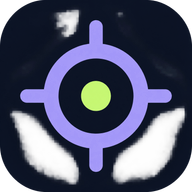
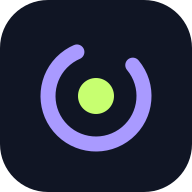
Adoptar Spotea en la marca visible y los iconos de instalación

diff --git a/app/src/components/demo/demo-panels.tsx b/app/src/components/demo/demo-panels.tsx
@@ -54,7 +54,7 @@ export function DemoPlans() {
       const event = DEMO_EVENTS.find((item) => item.placeId === plan.placeId)!;
       return <article key={plan.placeId} className="flex flex-col gap-3 rounded-[28px] border border-white/10 bg-white/[.025] p-4">
         <div className="flex items-center gap-3"><PlacePhoto path={null} alt="" demo variant={place.music === "jazz" ? "live" : place.music === "indie" ? "terrace" : place.music === "pop" ? "electric" : "night"} className="h-24 w-20 flex-none rounded-2xl" /><div><span className="text-[10px] font-semibold text-violet-soft">{event.time} / Demo</span><Link href={`/local/${plan.placeId}`} className="mt-2 block text-lg leading-tight font-bold">{event.title}</Link><p className="mt-1 text-[11px] text-muted">{place.name} · {place.zone}</p></div></div>
-        <div className="grid grid-cols-2 gap-2"><a href={`https://www.google.com/maps/search/?api=1&query=${place.lat},${place.lng}`} target="_blank" rel="noopener noreferrer" aria-label="Cómo llegar (ubicación demo)" className="flex min-h-11 items-center justify-center gap-2 rounded-full border border-white/15 text-xs font-semibold text-violet-soft"><MapPin aria-hidden className="h-4 w-4" />Cómo llegar</a><ShareButton title={event.title} text={`Plan de prueba en Hunter · ${event.time}. Evento simulado, no una reserva real.`} path={`/local/${plan.placeId}`} label="Compartir plan" /></div>
+        <div className="grid grid-cols-2 gap-2"><a href={`https://www.google.com/maps/search/?api=1&query=${place.lat},${place.lng}`} target="_blank" rel="noopener noreferrer" aria-label="Cómo llegar (ubicación demo)" className="flex min-h-11 items-center justify-center gap-2 rounded-full border border-white/15 text-xs font-semibold text-violet-soft"><MapPin aria-hidden className="h-4 w-4" />Cómo llegar</a><ShareButton title={event.title} text={`Plan de prueba en Spotea · ${event.time}. Evento simulado, no una reserva real.`} path={`/local/${plan.placeId}`} label="Compartir plan" /></div>
         {plan.checkedIn ? <>
           <p className="font-semibold text-lime">Check-in simulado · sin puntos</p>
           {plan.rating === null ? <label className="text-sm">Valorar la visita demo<select aria-label={`Valorar ${event.title}`} defaultValue="" onChange={(e) => { const rating = Number(e.target.value); update((current) => ({ ...current, plans: current.plans.map((p) => p.placeId === plan.placeId ? { ...p, rating } : p) })); }} className="mt-2 w-full rounded-xl border border-white/20 bg-night-900 p-3"><option value="" disabled>Elige una puntuación</option>{[5, 4, 3, 2, 1].map((rating) => <option key={rating} value={rating}>{rating} de 5 ★</option>)}</select></label>
@@ -72,7 +72,7 @@ export function DemoControls() {
   const { state, reset, ready, storageFailed } = useDemo();
   return <section className="flex flex-col gap-4">
     <h1 className="text-2xl font-extrabold">Pruebas y datos demo</h1><DemoBanner />
-    <p className="text-sm text-muted">Cuando no hay locales reales, Hunter muestra cuatro locales y cuatro eventos de ejemplo. Puedes apuntarte, simular un check-in, valorar y simular una compra validada.</p>
+    <p className="text-sm text-muted">Cuando no hay locales reales, Spotea muestra cuatro locales y cuatro eventos de ejemplo. Puedes apuntarte, simular un check-in, valorar y simular una compra validada.</p>
     <p className="glass rounded-2xl p-4">Puntos demo: <b>{demoPoints(state)}</b> · Planes demo: <b>{state.plans.length}</b></p>
     <p className="text-xs text-muted">Estos puntos no se suman a los del perfil real. Reiniciar la demo no modifica tu cuenta ni los datos de Supabase.</p>
     {storageFailed && <p role="alert" className="text-sm text-rose">El navegador no permite guardar la demo. Puedes probarla, pero los cambios se perderán al recargar.</p>}

diff --git a/app/src/app/local/[placeId]/page.tsx b/app/src/app/local/[placeId]/page.tsx
@@ -27,11 +27,11 @@ export async function generateMetadata({ params }: { params: Promise<{ placeId: 
   const data = await loadPublicPlace(placeId);
   if (!data) notFound();
   const { place, demo } = data;
-  const description = demo ? `${place.name}: demostración ficticia de Hunter en Valencia.` : `${place.name} en ${place.zone}, ${place.city}. Consulta horarios, música, ambiente y disponibilidad en Hunter.`;
+  const description = demo ? `${place.name}: demostración ficticia de Spotea en Valencia.` : `${place.name} en ${place.zone}, ${place.city}. Consulta horarios, música, ambiente y disponibilidad en Spotea.`;
   const url = absoluteUrl(`/local/${place.id}`);
-  return { title: `${place.name} · Hunter`, description,
+  return { title: `${place.name} · Spotea`, description,
     alternates: demo ? undefined : { canonical: url }, robots: { index: indexingEnabled && !demo, follow: !demo },
-    openGraph: { title: `${place.name} · Hunter`, description, url, type: "website", images: !demo && place.cover_path ? [{ url: placePhotoUrl(publicEnv.supabaseUrl,place.cover_path), alt: place.name }] : [] },
+    openGraph: { title: `${place.name} · Spotea`, description, url, type: "website", images: !demo && place.cover_path ? [{ url: placePhotoUrl(publicEnv.supabaseUrl,place.cover_path), alt: place.name }] : [] },
   };
 }
 
@@ -66,8 +66,8 @@ export default async function PlacePage({ params }: { params: Promise<{ placeId:
         <PlacePhoto path={place.cover_path} alt={place.name} eager demo={Boolean(demoPlace)} variant={place.music === "jazz" ? "live" : place.music === "indie" ? "terrace" : place.music === "pop" ? "electric" : "night"} className="absolute inset-0" />
         <div aria-hidden className="absolute inset-0 bg-gradient-to-t from-black/70 via-transparent to-black/10" />
         <div className="absolute top-6 left-5"><IconLink href="/" label="Volver a Esta noche"><ArrowLeft aria-hidden className="h-5 w-5" /></IconLink></div>
-        <div className="absolute top-6 right-5"><ShareButton compact title={place.name.replace(" · Demo", "")} text={demoPlace ? "Plan de prueba de Hunter · Evento simulado." : `¿Vamos a ${place.name}? Descubre el plan en Hunter.`} path={`/local/${placeId}`} label="Compartir local" /></div>
-        <div className="detail-title absolute right-8 bottom-6 left-0 rounded-r-[48px] px-6 py-5"><p className="mb-2 text-[10px] font-semibold text-white/70">{demoPlace ? "Hunter presenta / Evento demo" : "Descubre el local"}</p><h1 className="max-w-72 text-[34px] leading-[1.05] font-extrabold tracking-tight text-white">{place.name}</h1>{demoPlace && <p className="mt-2 text-sm font-medium text-white/80">{DEMO_EVENTS.find((event) => event.placeId === placeId)?.title}</p>}</div>
+        <div className="absolute top-6 right-5"><ShareButton compact title={place.name.replace(" · Demo", "")} text={demoPlace ? "Plan de prueba de Spotea · Evento simulado." : `¿Vamos a ${place.name}? Descubre el plan en Spotea.`} path={`/local/${placeId}`} label="Compartir local" /></div>
+        <div className="detail-title absolute right-8 bottom-6 left-0 rounded-r-[48px] px-6 py-5"><p className="mb-2 text-[10px] font-semibold text-white/70">{demoPlace ? "Spotea presenta / Evento demo" : "Descubre el local"}</p><h1 className="max-w-72 text-[34px] leading-[1.05] font-extrabold tracking-tight text-white">{place.name}</h1>{demoPlace && <p className="mt-2 text-sm font-medium text-white/80">{DEMO_EVENTS.find((event) => event.placeId === placeId)?.title}</p>}</div>
       </div>
       <div className="relative mx-auto flex w-full max-w-2xl flex-col gap-6 px-6 pt-6 pb-36">
         <div className="flex flex-col gap-3 text-xs text-muted">

diff --git a/app/src/app/invitaciones/invitations-view.tsx b/app/src/app/invitaciones/invitations-view.tsx
@@ -16,7 +16,7 @@ export function InvitationsView({ referrals }: { referrals: Referrals }) {
     catch { setError("No hemos podido conectar. Inténtalo de nuevo."); } finally { setBusy(false); }
   }
   async function copy() { try { await navigator.clipboard.writeText(referrals.code); setNotice("Código copiado. Puedes enviarlo a quien invites."); } catch { setNotice("Selecciona el código para copiarlo."); } }
-  return <section className="flex flex-col gap-5"><h1 className="text-3xl font-extrabold">Invita con tu código</h1><p className="text-sm text-muted">Comparte tu código y suma puntos por invitaciones que terminan en una compra validada. No hay perfiles de amigos, solicitudes ni chat.</p><div className="glass flex flex-col gap-3 rounded-3xl p-5"><p className="font-bold">Tu código de invitación</p><code className="select-all break-all text-xl text-lime">{referrals.code}</code><button type="button" onClick={copy} className="min-h-11 text-left font-bold text-violet-soft">Copiar código</button><ShareButton title="Te invito a Hunter" text={`Descubre planes conmigo en Hunter. Mi código de invitación es ${referrals.code}. Asócialo antes de tu primera compra validada.`} path="/" label="Compartir invitación" /></div><dl className="glass grid grid-cols-2 gap-3 rounded-3xl p-5"><dt>Invitaciones asociadas</dt><dd className="text-right font-bold">{referrals.invited_count}</dd><dt>Invitaciones premiadas</dt><dd className="text-right font-bold">{referrals.rewarded_count}</dd><dt>Puntos de invitación este mes</dt><dd className="text-right font-bold">{referrals.monthly_referral_points}</dd></dl>
+  return <section className="flex flex-col gap-5"><h1 className="text-3xl font-extrabold">Invita con tu código</h1><p className="text-sm text-muted">Comparte tu código y suma puntos por invitaciones que terminan en una compra validada. No hay perfiles de amigos, solicitudes ni chat.</p><div className="glass flex flex-col gap-3 rounded-3xl p-5"><p className="font-bold">Tu código de invitación</p><code className="select-all break-all text-xl text-lime">{referrals.code}</code><button type="button" onClick={copy} className="min-h-11 text-left font-bold text-violet-soft">Copiar código</button><ShareButton title="Te invito a Spotea" text={`Descubre planes conmigo en Spotea. Mi código de invitación es ${referrals.code}. Asócialo antes de tu primera compra validada.`} path="/" label="Compartir invitación" /></div><dl className="glass grid grid-cols-2 gap-3 rounded-3xl p-5"><dt>Invitaciones asociadas</dt><dd className="text-right font-bold">{referrals.invited_count}</dd><dt>Invitaciones premiadas</dt><dd className="text-right font-bold">{referrals.rewarded_count}</dd><dt>Puntos de invitación este mes</dt><dd className="text-right font-bold">{referrals.monthly_referral_points}</dd></dl>
     {referrals.can_claim ? <form onSubmit={claim} className="flex flex-col gap-3"><Field label="Código de quien te invitó"><input name="code" required pattern="[a-fA-F0-9]{16}" minLength={16} maxLength={16} autoComplete="off" className={INPUT_CLASS} /></Field><p className="text-xs text-muted">Asócialo antes de tu primera compra validada. Solo puedes asociar uno y no se puede cambiar.</p><PrimaryButton disabled={busy}>Asociar invitación</PrimaryButton></form> : <p className="text-sm text-muted">{referrals.has_inviter ? "Ya tienes una invitación asociada." : "Ya has realizado una compra validada y no puedes asociar un código retroactivamente."}</p>}
     {notice && <p role="status" className="text-sm text-lime">{notice}</p>}{error && <ErrorText>{error}</ErrorText>}<RewardsRules /></section>;
 }

diff --git a/app/src/components/welcome-experience.tsx b/app/src/components/welcome-experience.tsx
@@ -5,7 +5,7 @@ import Link from "next/link";
 import { ScanLine } from "lucide-react";
 import { useState } from "react";
 import { SlideToStart } from "./slide-to-start";
-import { HunterLogo } from "./logo";
+import { SpoteaLogo } from "./logo";
 
 const STEPS = [
   { image: "night", title: "Encuentra tu frecuencia", detail: "Descubre la música y el ambiente antes de salir." },
@@ -17,10 +17,10 @@ export function WelcomeExperience() {
   const [step, setStep] = useState(0);
   const selected = STEPS[step];
   return <section className="welcome-editorial -mx-5 -my-6 flex min-h-dvh flex-col px-7 pt-7 pb-7">
-    <header className="flex items-center justify-between"><HunterLogo className="h-6" /><span className="text-[10px] font-bold tracking-widest text-muted">VALENCIA / +18</span></header>
+    <header className="flex items-center justify-between"><SpoteaLogo className="h-6" /><span className="text-[10px] font-bold tracking-widest text-muted">VALENCIA / +18</span></header>
     <h1 className="mt-7 text-[clamp(42px,12vw,54px)] leading-[1.04] font-extrabold tracking-[-.045em]">¿Listo para<br />esta <span className="outline-type">noche?</span></h1>
     <div className="relative mt-6 flex min-h-64 flex-1 items-center gap-6 py-2">
-      <div role="tablist" aria-label="Descubre Hunter" aria-orientation="vertical" onKeyDown={(event) => { const keys = ["ArrowDown", "ArrowUp", "Home", "End"]; if (!keys.includes(event.key)) return; event.preventDefault(); const next = event.key === "Home" ? 0 : event.key === "End" ? STEPS.length - 1 : (step + (event.key === "ArrowDown" ? 1 : -1) + STEPS.length) % STEPS.length; setStep(next); document.getElementById(`intro-tab-${next}`)?.focus(); }} className="flex flex-col items-center gap-3">
+      <div role="tablist" aria-label="Descubre Spotea" aria-orientation="vertical" onKeyDown={(event) => { const keys = ["ArrowDown", "ArrowUp", "Home", "End"]; if (!keys.includes(event.key)) return; event.preventDefault(); const next = event.key === "Home" ? 0 : event.key === "End" ? STEPS.length - 1 : (step + (event.key === "ArrowDown" ? 1 : -1) + STEPS.length) % STEPS.length; setStep(next); document.getElementById(`intro-tab-${next}`)?.focus(); }} className="flex flex-col items-center gap-3">
         {STEPS.map((item, index) => <div key={item.title} className="flex flex-col items-center gap-3"><button type="button" role="tab" tabIndex={step === index ? 0 : -1} id={`intro-tab-${index}`} aria-controls="intro-panel" aria-selected={step === index} aria-label={`${index + 1}. ${item.title}`} onClick={() => setStep(index)} className={`grid h-9 w-9 place-items-center rounded-full border text-sm ${step === index ? "border-white text-white" : "border-white/10 text-muted/40"}`}>{index + 1}</button>{index < 2 && <span aria-hidden className="h-4 w-px bg-white/15" />}</div>)}
       </div>
       <div className="intro-capsule relative mx-auto w-full max-w-48 overflow-hidden rounded-[130px]">

diff --git a/app/tests/auth/login.spec.ts b/app/tests/auth/login.spec.ts
@@ -349,7 +349,7 @@ test("la barra tiene cinco accesos y el menú lateral permite abrir perfil y cer
   await expect(navigation.getByRole("link", { name: "Perfil", exact: true })).toHaveCount(0);
   const trigger = page.getByRole("button", { name: "Abrir menú" });
   await trigger.click();
-  await expect(page.getByRole("dialog", { name: "Tu Hunter" })).toBeVisible();
+  await expect(page.getByRole("dialog", { name: "Tu Spotea" })).toBeVisible();
   await expect(page.getByRole("button", { name: "Salir", exact: true })).toBeVisible();
   await page.screenshot({ path: test.info().outputPath("menu-lateral.png") });
   await page.keyboard.press("Escape");
@@ -601,7 +601,7 @@ test("la introducción permite cambiar de paso y continúa al acceso", async ({ 
   await page.locator("img").evaluateAll(async (images) => { await Promise.all(images.map((image) => (image as HTMLImageElement).decode().catch(() => {}))); });
   await page.screenshot({ path: test.info().outputPath("portada-editorial.png"), style: "nextjs-portal { display: none !important; }" });
   await page.getByRole("button", { name: "Empezar", exact: true }).click();
-  await expect(page.getByRole("heading", { name: "Entra en Hunter" })).toBeVisible();
+  await expect(page.getByRole("heading", { name: "Entra en Spotea" })).toBeVisible();
 });
 
 test("la ficha ofrece galería ampliable y conserva la acción de apuntarse", async ({ page }) => {
@@ -657,7 +657,7 @@ test("la flecha de empezar se arrastra, vuelve si se suelta antes y abre el acce
   await page.mouse.down();
   await page.mouse.move(track.x + track.width - 14, initial.y + initial.height / 2, { steps: 12 });
   await page.mouse.up();
-  await expect(page.getByRole("heading", { name: "Entra en Hunter" })).toBeVisible();
+  await expect(page.getByRole("heading", { name: "Entra en Spotea" })).toBeVisible();
 });
 
 test("el menú normal oculta locales y una cuenta con local conserva el acceso", async ({ page }) => {
@@ -753,7 +753,7 @@ test("el enlace público conserva la ficha cerrada y bloquea prelistas", async (
 
 test("la ficha abierta ofrece acceso con regreso al local y SEO de pruebas", async ({ page }) => {
   await page.goto(`/local/${testPlaces[0].id}`);
-  await expect(page).toHaveTitle("Sala de prueba · Hunter");
+  await expect(page).toHaveTitle("Sala de prueba · Spotea");
   await expect(page.locator('link[rel="canonical"]')).toHaveAttribute("href", `http://127.0.0.1:3100/local/${testPlaces[0].id}`);
   await expect(page.locator('meta[name="robots"]')).toHaveAttribute("content", /noindex/);
   await page.getByRole("link", { name: "Entra para apuntarte" }).click();

diff --git a/app/src/components/side-menu.tsx b/app/src/components/side-menu.tsx
@@ -56,9 +56,9 @@ export function SideMenu({ canManageVenue = false, signedIn = false }: { canMana
       onClick={(event) => { if (event.target === event.currentTarget) close(); }}
       className="fixed inset-y-0 right-0 left-auto m-0 h-dvh max-h-none w-[min(86vw,360px)] max-w-none border-l border-white/15 bg-night-950 p-0 text-fg shadow-2xl backdrop:bg-black/65">
       <div className="flex h-full flex-col gap-6 overflow-y-auto p-6">
-        <div className="flex items-center justify-between"><h2 id="side-menu-title" className="text-xl font-extrabold">Tu Hunter</h2><button type="button" onClick={close} aria-label="Cerrar menú" className="grid h-11 w-11 place-items-center rounded-full border border-white/15"><X aria-hidden className="h-5 w-5" /></button></div>
+        <div className="flex items-center justify-between"><h2 id="side-menu-title" className="text-xl font-extrabold">Tu Spotea</h2><button type="button" onClick={close} aria-label="Cerrar menú" className="grid h-11 w-11 place-items-center rounded-full border border-white/15"><X aria-hidden className="h-5 w-5" /></button></div>
         <nav aria-label="Opciones de cuenta" className="flex flex-col gap-2">
-          {(signedIn ? LINKS : [{ href: "/login?next=%2F", label: "Entrar o crear cuenta", Icon: User }, { href: "/bienvenida", label: "Cómo funciona Hunter", Icon: FlaskConical }, { href: "/locales", label: "Hunter para locales", Icon: Store }, { href: "/privacidad", label: "Privacidad", Icon: ShieldCheck }]).filter((link) => link.href !== "/panel" || canManageVenue).map(({ href, label, Icon }) => <Link key={href} href={href} onClick={close} className="glass flex min-h-14 items-center gap-3 rounded-2xl px-4"><Icon aria-hidden className="h-5 w-5 text-violet-soft" />{label}</Link>)}
+          {(signedIn ? LINKS : [{ href: "/login?next=%2F", label: "Entrar o crear cuenta", Icon: User }, { href: "/bienvenida", label: "Cómo funciona Spotea", Icon: FlaskConical }, { href: "/locales", label: "Spotea para locales", Icon: Store }, { href: "/privacidad", label: "Privacidad", Icon: ShieldCheck }]).filter((link) => link.href !== "/panel" || canManageVenue).map(({ href, label, Icon }) => <Link key={href} href={href} onClick={close} className="glass flex min-h-14 items-center gap-3 rounded-2xl px-4"><Icon aria-hidden className="h-5 w-5 text-violet-soft" />{label}</Link>)}
         </nav>
         {signedIn && <div className="mt-auto flex flex-col gap-3 border-t border-white/15 pt-5">
           <p className="text-xs text-muted">Si estás probando como invitado, cerrar sesión te hará perder el acceso a esa cuenta.</p>

diff --git a/app/src/app/compras/customer-purchases.tsx b/app/src/app/compras/customer-purchases.tsx
@@ -34,7 +34,7 @@ export function CustomerPurchases({ venues, purchases }: { venues: PurchaseVenue
       setRequest(parsed.data); setNow(Date.now());
     } catch { setError("No hemos podido conectar. Inténtalo de nuevo."); } finally { setBusy(false); }
   }
-  return <section className="flex flex-col gap-5"><h1 className="text-3xl font-extrabold">Mi QR de compra</h1><p className="text-sm text-muted">Elige el local y enseña el QR al personal después de pagar. Validar una compra es distinto de canjear una oferta. Hunter no procesa el pago.</p>
+  return <section className="flex flex-col gap-5"><h1 className="text-3xl font-extrabold">Mi QR de compra</h1><p className="text-sm text-muted">Elige el local y enseña el QR al personal después de pagar. Validar una compra es distinto de canjear una oferta. Spotea no procesa el pago.</p>
     {venues.length ? <div className="flex flex-col gap-3"><Field label="Local donde has comprado"><select value={place} onChange={(event) => { setPlace(event.target.value); setRequest(null); }} className="min-h-12 rounded-2xl border border-white/20 bg-night-900 p-3">{venues.map((venue) => <option key={venue.id} value={venue.id}>{venue.name}{venue.is_demo ? " · Solo demo" : ""}</option>)}</select></Field><PrimaryButton disabled={busy} onClick={generate}>{request ? "Renovar mi QR de compra" : "Generar mi QR de compra"}</PrimaryButton><p className="text-xs text-muted">El QR caduca en cinco minutos y solo admite una compra. Renovarlo invalida el anterior.</p></div> : <p className="glass rounded-3xl p-4 text-muted">Todavía no hay locales disponibles. Para ensayar, crea tu local de prueba en el panel.</p>}
     {request && <div className="glass flex flex-col gap-3 rounded-3xl p-4">{request.is_demo && <p className="text-sm font-bold text-violet-soft">Demo · No suma puntos ni participa en el ranking.</p>}{remaining > 0 ? <><QrImage key={request.token} value={purchaseQr(request.place_id, request.token)} /><p role="status" className="text-center text-sm">Válido durante {Math.floor(remaining / 60)}:{String(remaining % 60).padStart(2, "0")}</p><details><summary className="cursor-pointer text-sm underline">Código para copiar al personal</summary><code className="mt-2 block select-all break-all text-xs">{purchaseQr(request.place_id, request.token)}</code></details></> : <p role="status" className="text-sm text-violet-soft">El QR ha caducado. Genera uno nuevo.</p>}</div>}
     {error && <ErrorText>{error}</ErrorText>}

diff --git a/app/src/app/locales/page.tsx b/app/src/app/locales/page.tsx
@@ -1,11 +1,11 @@
 import Link from "next/link";
 import { Store, QrCode, ChartNoAxesCombined } from "lucide-react";
-import { HunterLogo } from "@/components/logo";
+import { SpoteaLogo } from "@/components/logo";
 
 export default function VenuesLandingPage() {
   return <section className="flex flex-1 flex-col gap-7">
-    <header className="flex items-center justify-between gap-4"><HunterLogo className="h-7 text-fg" /><Link href="/" className="text-sm text-muted underline">App de usuarios</Link></header>
-    <div className="flex flex-col gap-4 py-5"><p className="text-sm font-bold tracking-widest text-violet uppercase">Hunter para locales · Piloto</p><h1 className="text-4xl leading-tight font-extrabold">Tu local, en los planes de esta noche.</h1><p className="text-muted">Gestiona ofertas, prepara tus QR y consulta la actividad de tu local desde un panel propio.</p></div>
+    <header className="flex items-center justify-between gap-4"><SpoteaLogo className="h-7 text-fg" /><Link href="/" className="text-sm text-muted underline">App de usuarios</Link></header>
+    <div className="flex flex-col gap-4 py-5"><p className="text-sm font-bold tracking-widest text-violet uppercase">Spotea para locales · Piloto</p><h1 className="text-4xl leading-tight font-extrabold">Tu local, en los planes de esta noche.</h1><p className="text-muted">Gestiona ofertas, prepara tus QR y consulta la actividad de tu local desde un panel propio.</p></div>
     <Link href="/panel" className="flex min-h-14 items-center justify-center rounded-full bg-violet px-5 font-bold text-white">Entrar en mi panel</Link>
     <Link href="/panel/solicitar-alta" className="flex min-h-14 items-center justify-center rounded-full border border-violet px-5 font-bold text-violet">Solicitar el alta de mi local</Link>
     <div className="rounded-3xl bg-tile-sand p-5"><h2 className="font-bold">¿Solo quieres probar?</h2><p className="mt-2 text-sm text-muted">Entra con tu cuenta o como invitado, completa tu perfil y crea tu local demo. Tendrás ofertas de ejemplo y acceso de gestión, sin publicarlo en el mapa.</p><Link href="/panel" className="mt-3 inline-flex min-h-11 items-center font-bold text-violet underline">Probar con mi local demo</Link></div>

diff --git a/app/src/app/login/login-form.tsx b/app/src/app/login/login-form.tsx
@@ -2,7 +2,7 @@
 
 import { useRouter } from "next/navigation";
 import { useState, type FormEvent } from "react";
-import { HunterLogo } from "@/components/logo";
+import { SpoteaLogo } from "@/components/logo";
 import { ErrorText, Field, INPUT_CLASS, PrimaryButton } from "@/components/ui";
 import { createSupabaseBrowserClient } from "@/lib/supabase/browser";
 import { loginErrorMessage } from "@/lib/auth/login-errors";
@@ -84,8 +84,8 @@ export function LoginForm({ next, initialError = null }: { next: string; initial
   return (
     <section className="login-stage flex flex-1 flex-col justify-center gap-8 py-8">
       <header className="flex flex-col gap-2">
-        <HunterLogo className="h-8 text-fg" />
-        <p className="eyebrow mt-8 text-lime">Tu noche empieza aquí</p><h1 className="text-[42px] leading-none font-black tracking-tight">Entra en Hunter</h1>
+        <SpoteaLogo className="h-8 text-fg" />
+        <p className="eyebrow mt-8 text-lime">Tu noche empieza aquí</p><h1 className="text-[42px] leading-none font-black tracking-tight">Entra en Spotea</h1>
         {next.startsWith("/local/") && <p className="text-sm text-lime">Entra para guardar este plan y acceder a sus ofertas. Después volverás a la ficha.</p>}
         {next === "/compras" && <p className="text-sm text-lime">Entra para generar tu QR de compra y consultar tus puntos.</p>}
         {next === "/planes" && <p className="text-sm text-lime">Entra para guardar tus planes y tenerlos a mano durante la noche.</p>}
@@ -125,7 +125,7 @@ export function LoginForm({ next, initialError = null }: { next: string; initial
           className="glass min-h-12 rounded-full px-5 py-3 font-bold disabled:opacity-50">
           Probar sin correo
         </button>
-        <p className="text-xs text-muted">Acceso de invitado para probar Hunter. La sesión queda en este navegador: si cierras sesión o borras sus datos, no podrás recuperarla.</p>
+        <p className="text-xs text-muted">Acceso de invitado para probar Spotea. La sesión queda en este navegador: si cierras sesión o borras sus datos, no podrás recuperarla.</p>
       </div>
       {error && <ErrorText>{error}</ErrorText>}
     </section>

diff --git a/app/src/components/logo.tsx b/app/src/components/logo.tsx
@@ -1,18 +1,11 @@
-// Logotipo provisional de Hunter: texto + mira en la «u». Se sustituye cuando haya logo definitivo.
-export function HunterLogo({ className = "h-7" }: { className?: string }) {
+// Wordmark provisional de Spotea: un spot luminoso dentro de una órbita abierta.
+export function SpoteaLogo({ className = "h-7" }: { className?: string }) {
   return (
-    <svg viewBox="0 0 168 40" role="img" aria-label="Hunter" className={className}>
-      <text x="0" y="31" fill="currentColor" fontFamily="inherit" fontSize="34" fontWeight="800" letterSpacing="-1">
-        H
-      </text>
-      <g transform="translate(36 21)">
-        <circle r="12" fill="none" stroke="#a99aff" strokeWidth="4" />
-        <circle r="3.5" fill="#c7ff70" />
-        <path d="M0-17v6M0 11v6M-17 0h6M11 0h6" stroke="#a99aff" strokeWidth="3.5" strokeLinecap="round" />
-      </g>
-      <text x="56" y="31" fill="currentColor" fontFamily="inherit" fontSize="34" fontWeight="800" letterSpacing="-1">
-        nter
-      </text>
+    <svg viewBox="0 0 132 40" role="img" aria-label="Spotea" className={className}>
+      <text x="0" y="31" fill="currentColor" fontFamily="inherit" fontSize="34" fontWeight="800" letterSpacing="-1">sp</text>
+      <circle cx="53" cy="22" r="10" fill="none" stroke="#a99aff" strokeWidth="4" strokeDasharray="50 13" transform="rotate(-40 53 22)" strokeLinecap="round" />
+      <circle cx="53" cy="22" r="3.5" fill="#c7ff70" />
+      <text x="68" y="31" fill="currentColor" fontFamily="inherit" fontSize="34" fontWeight="800" letterSpacing="-1">tea</text>
     </svg>
   );
 }

diff --git a/app/src/app/planes/page.tsx b/app/src/app/planes/page.tsx
@@ -36,7 +36,7 @@ export default async function PlansPage() {
               </div>
               <div className="grid grid-cols-2 gap-2 border-t border-white/10 pt-3">
                 <a href={`https://www.google.com/maps/search/?api=1&query=${encodeURIComponent([signup.places?.address || signup.places?.name, signup.places?.zone, signup.places?.cities?.name || "Valencia"].filter(Boolean).join(", "))}`} target="_blank" rel="noopener noreferrer" className="flex min-h-11 items-center justify-center gap-2 rounded-full border border-white/15 text-xs font-semibold text-violet-soft"><MapPin aria-hidden className="h-4 w-4" />Cómo llegar</a>
-                <ShareButton title={signup.places?.name || "Plan en Hunter"} text="¿Te apuntas? Descubre este local en Hunter." path={`/local/${signup.place_id}`} label="Compartir plan" />
+                <ShareButton title={signup.places?.name || "Plan en Spotea"} text="¿Te apuntas? Descubre este local en Spotea." path={`/local/${signup.place_id}`} label="Compartir plan" />
               </div>
               {redemption ? (
                 <Link href={`/canje/${redemption.id}`} className="flex items-center gap-2 font-bold text-lime">

diff --git a/app/src/app/panel/layout.tsx b/app/src/app/panel/layout.tsx
@@ -1,7 +1,7 @@
 // El panel del local va en modo día: se usa en la barra o en el ordenador, no en la calle de noche.
 import Link from "next/link";
-import { HunterLogo } from "@/components/logo";
+import { SpoteaLogo } from "@/components/logo";
 
 export default function PanelLayout({ children }: { children: React.ReactNode }) {
-  return <div className="theme-day -mx-5 -my-6 flex min-h-dvh flex-col px-5 py-6"><header className="mb-6 flex items-center justify-between gap-3"><Link href="/locales" aria-label="Hunter para locales"><HunterLogo className="h-6 text-fg" /></Link><nav className="flex gap-4 text-sm text-muted"><Link href="/panel">Mi panel</Link><Link href="/">App</Link><Link href="/perfil">Mi cuenta</Link></nav></header>{children}</div>;
+  return <div className="theme-day -mx-5 -my-6 flex min-h-dvh flex-col px-5 py-6"><header className="mb-6 flex items-center justify-between gap-3"><Link href="/locales" aria-label="Spotea para locales"><SpoteaLogo className="h-6 text-fg" /></Link><nav className="flex gap-4 text-sm text-muted"><Link href="/panel">Mi panel</Link><Link href="/">App</Link><Link href="/perfil">Mi cuenta</Link></nav></header>{children}</div>;
 }
